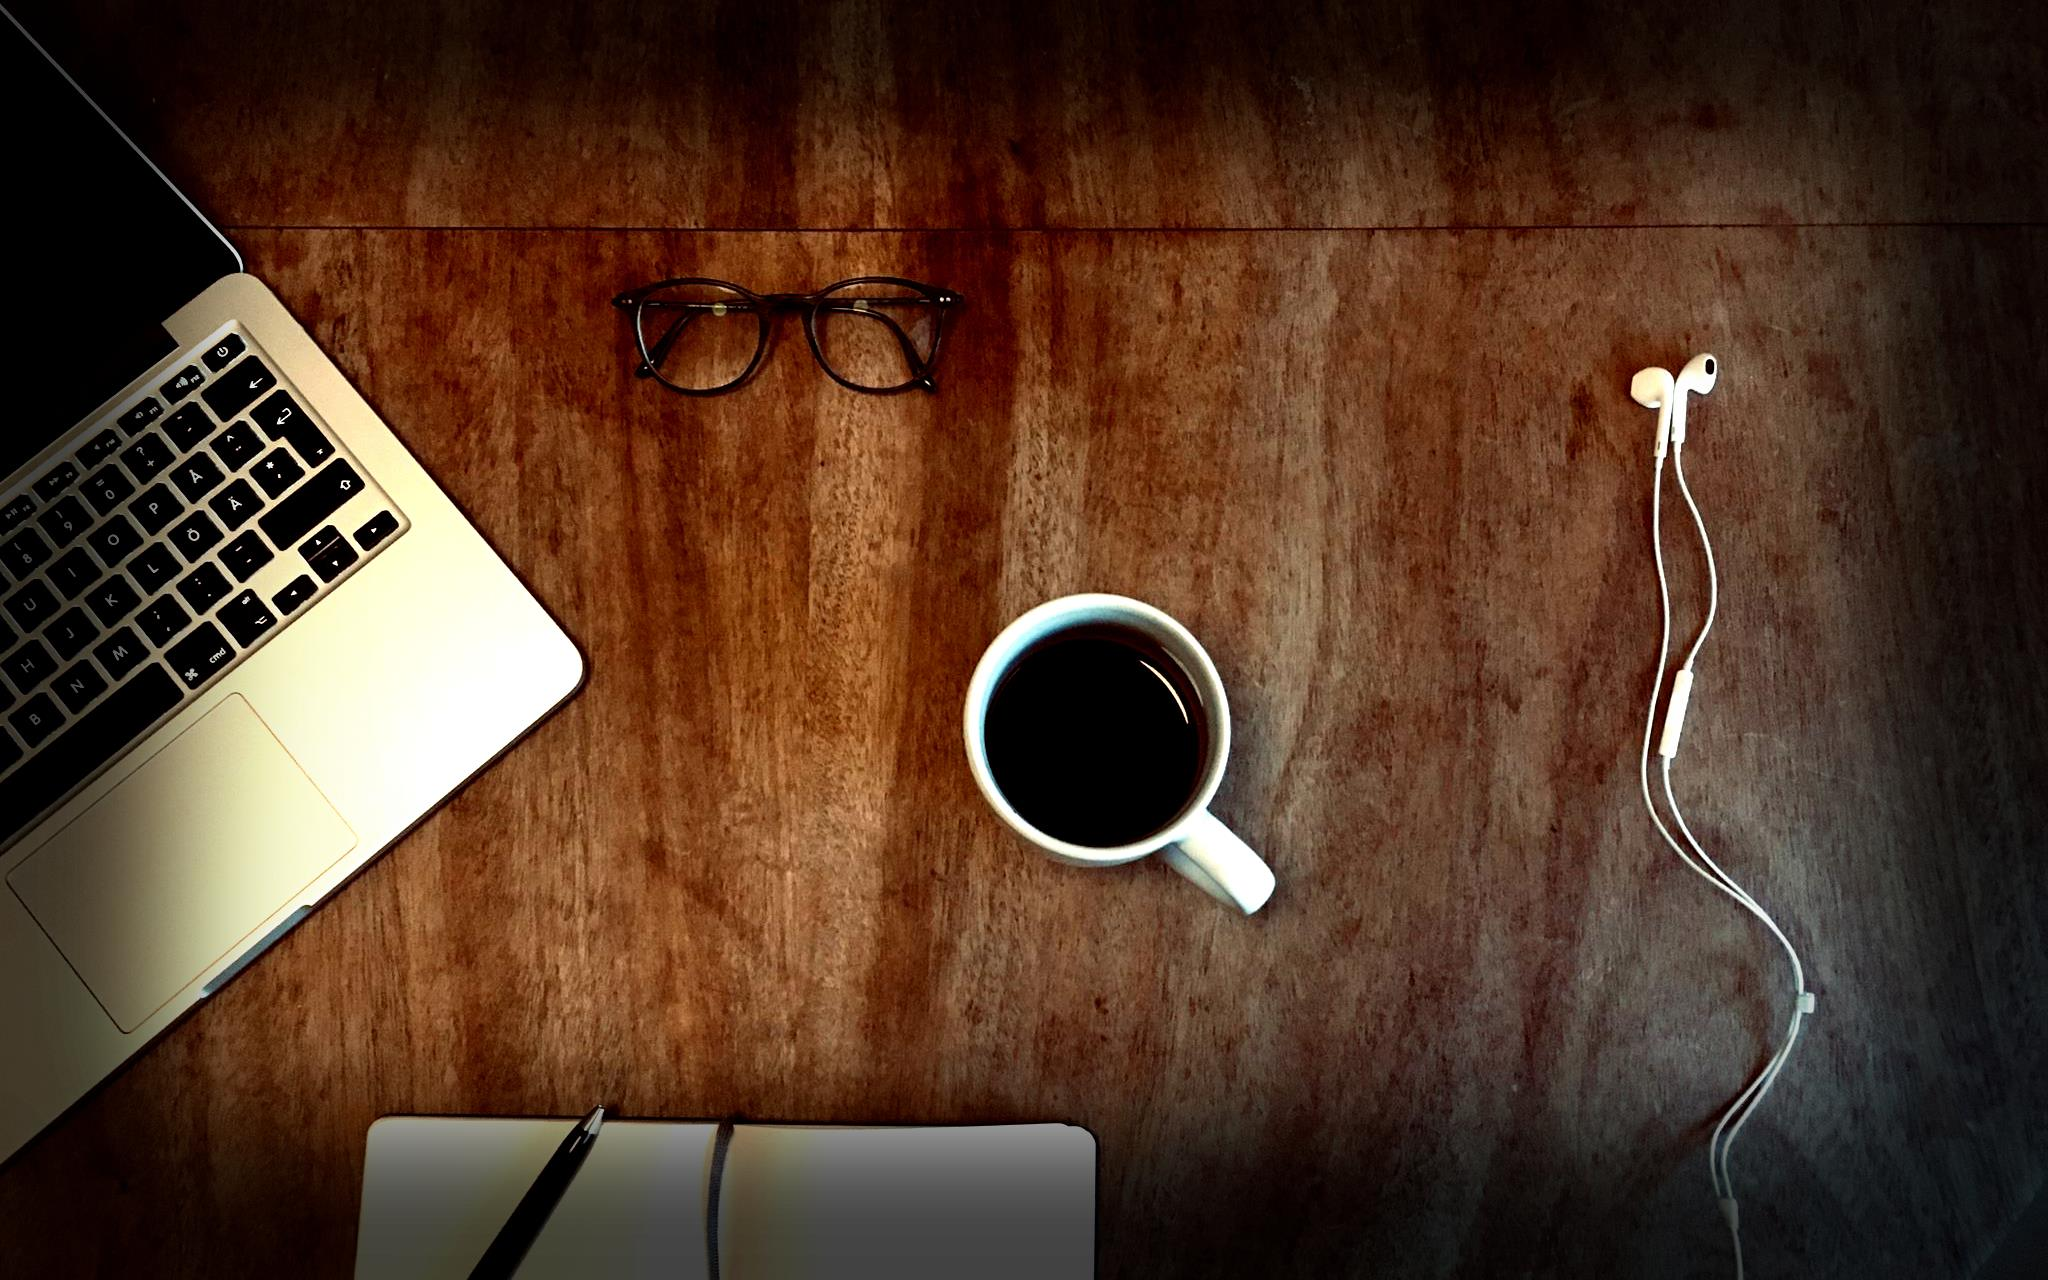
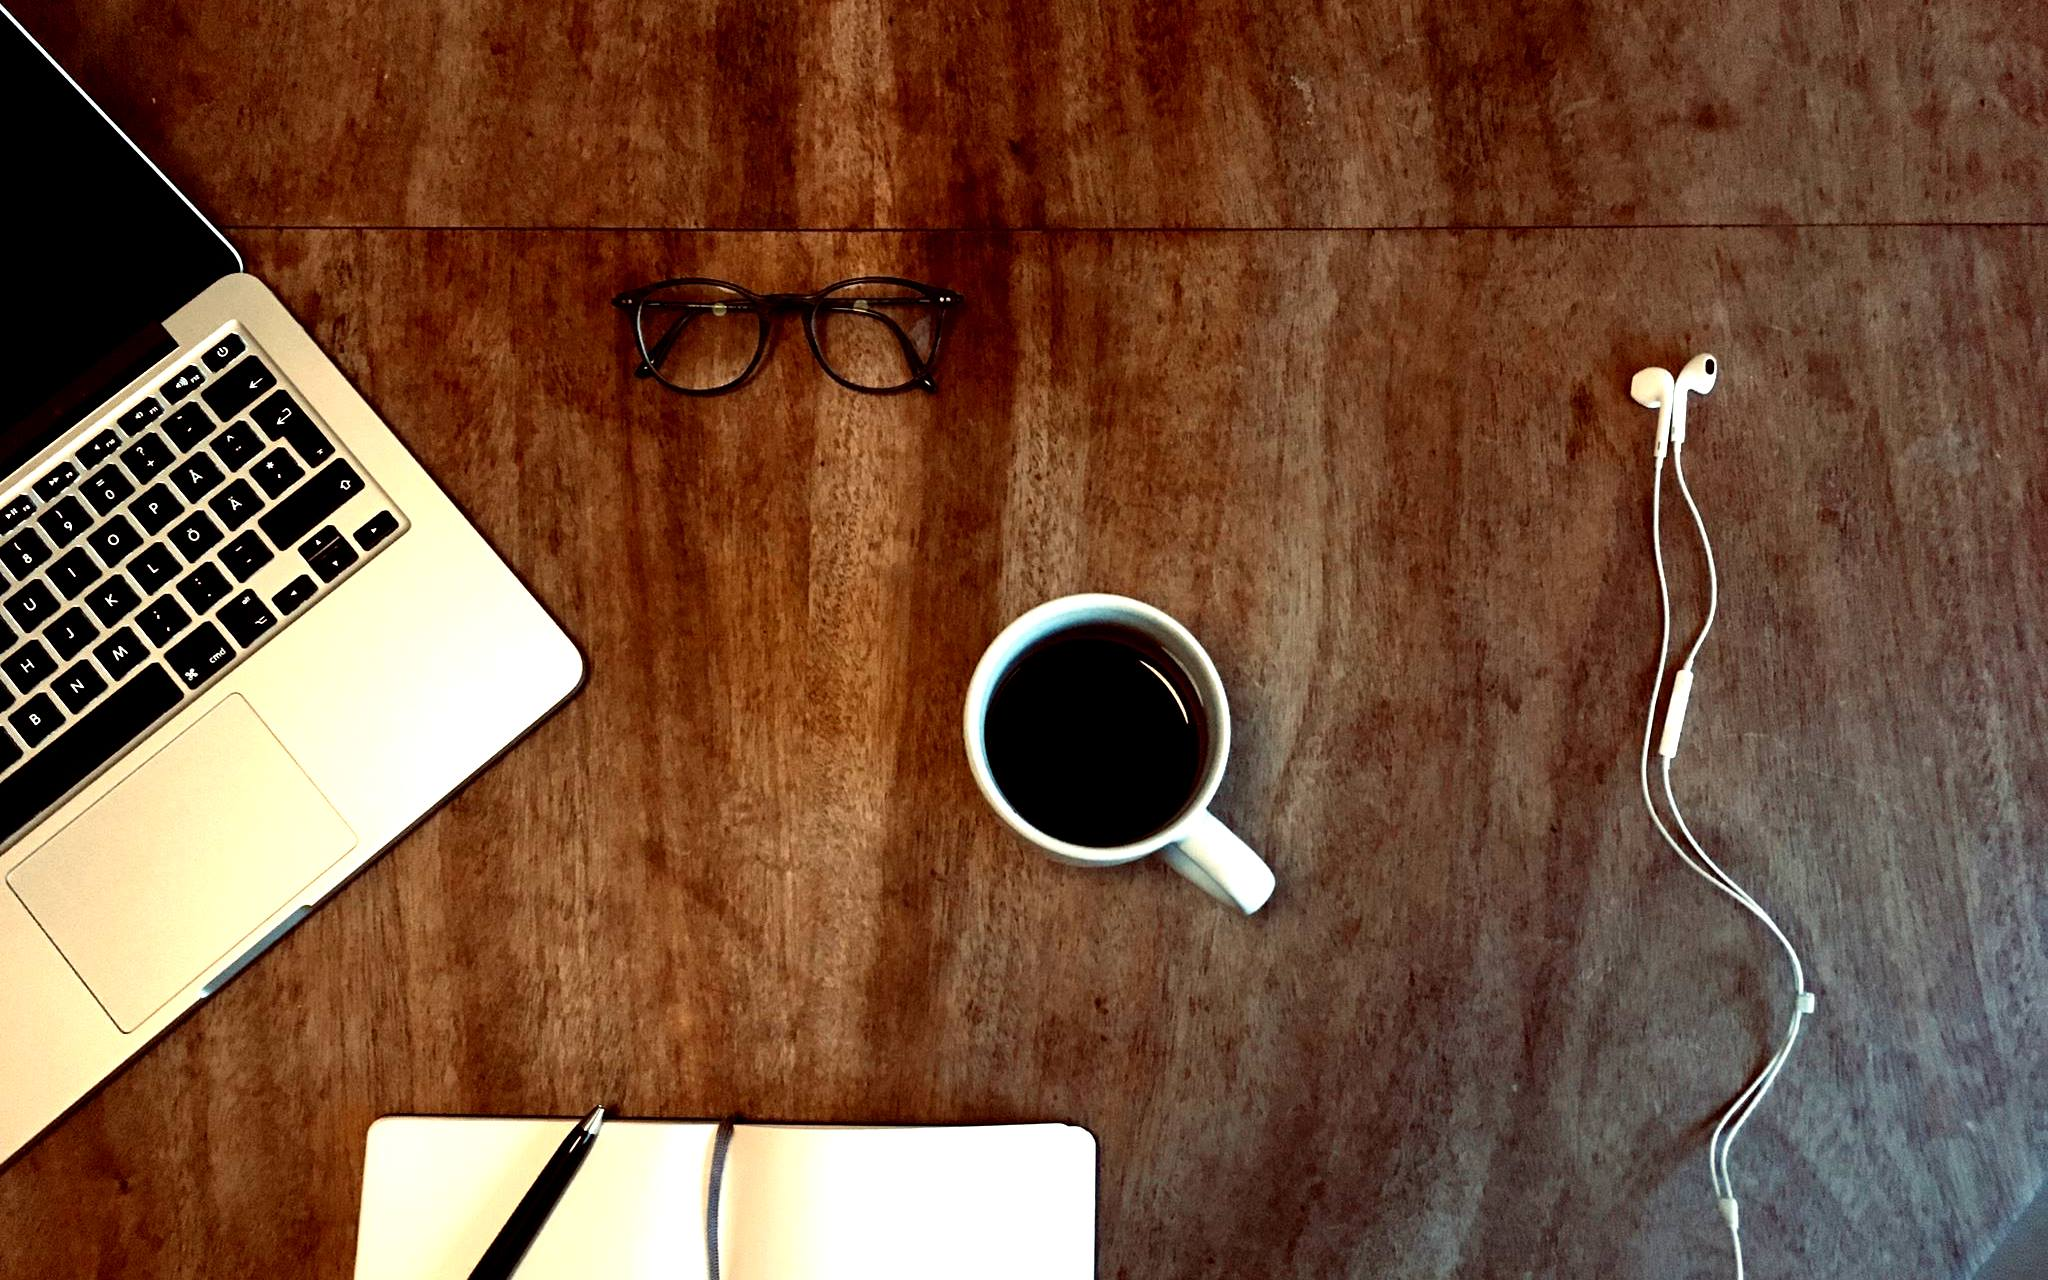
Added a static vinyette, pics no longer stretched on mobile, fixed #4

diff --git a/client/src/shared/BackgroundImage.tsx b/client/src/shared/BackgroundImage.tsx
@@ -1,16 +1,27 @@
 import * as React from 'react';
-
+import fadeframe from 'src/resources/images/fade_frame.png';
 interface BackgroundImageProps {
     backgroundImage: string;
     className?: string;
 }
 
 const BackgroundImage: React.SFC<BackgroundImageProps> = ({backgroundImage, className}) => {
-    return (<div className={className + " "}>
+    return (<div className={className + " relative"}>
         <img 
-            src={backgroundImage} alt=""
-            className="w-full xs:h-middle lg:h-middle "
+            src={fadeframe} alt="fadeframe"
+            className="absolute z-10 w-full xs:h-middle lg:h-middle "
+            style={{
+                opacity: 0.6
+            }}
+        />
+        <img 
+            src={backgroundImage} alt="background"
+            className="min-w-full xs:h-middle lg:h-middle "
+            style={{
+                maxWidth: 'unset'
+            }}
             />
+        
     </div>)
 }
 

diff --git a/client/src/home/Home.tsx b/client/src/home/Home.tsx
@@ -1,12 +1,9 @@
 import * as React from 'react';
 import grassoland from 'src/resources/images/grassoland.jpg';
-import oland from 'src/resources/images/oland_no_border.jpg';
-
+import oland from 'src/resources/images/oland.jpg';
 import vineyard from 'src/resources/images/vineyard.jpg';
-
 import computer from 'src/resources/images/computer.jpg';
-
-import logowhite from 'src/resources/logos/logowhite.png';
+import logowhite from 'src/resources/images/logowhite.png';
 import BackgroundImage from 'src/shared/BackgroundImage';
 import MenuList from 'src/shared/MenuList';
 import Socials from './Socials';
